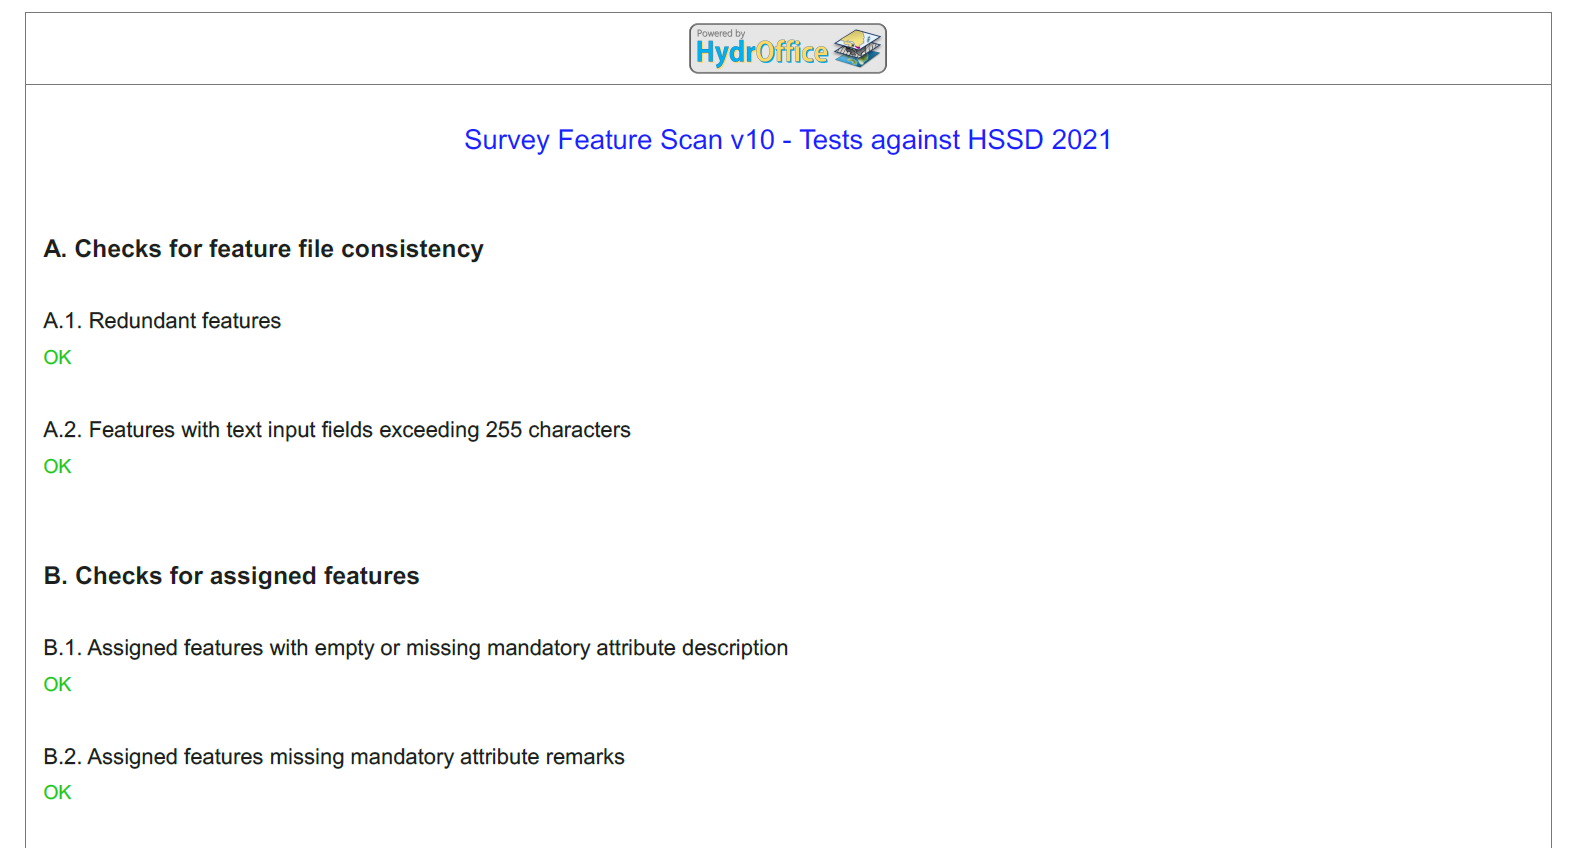
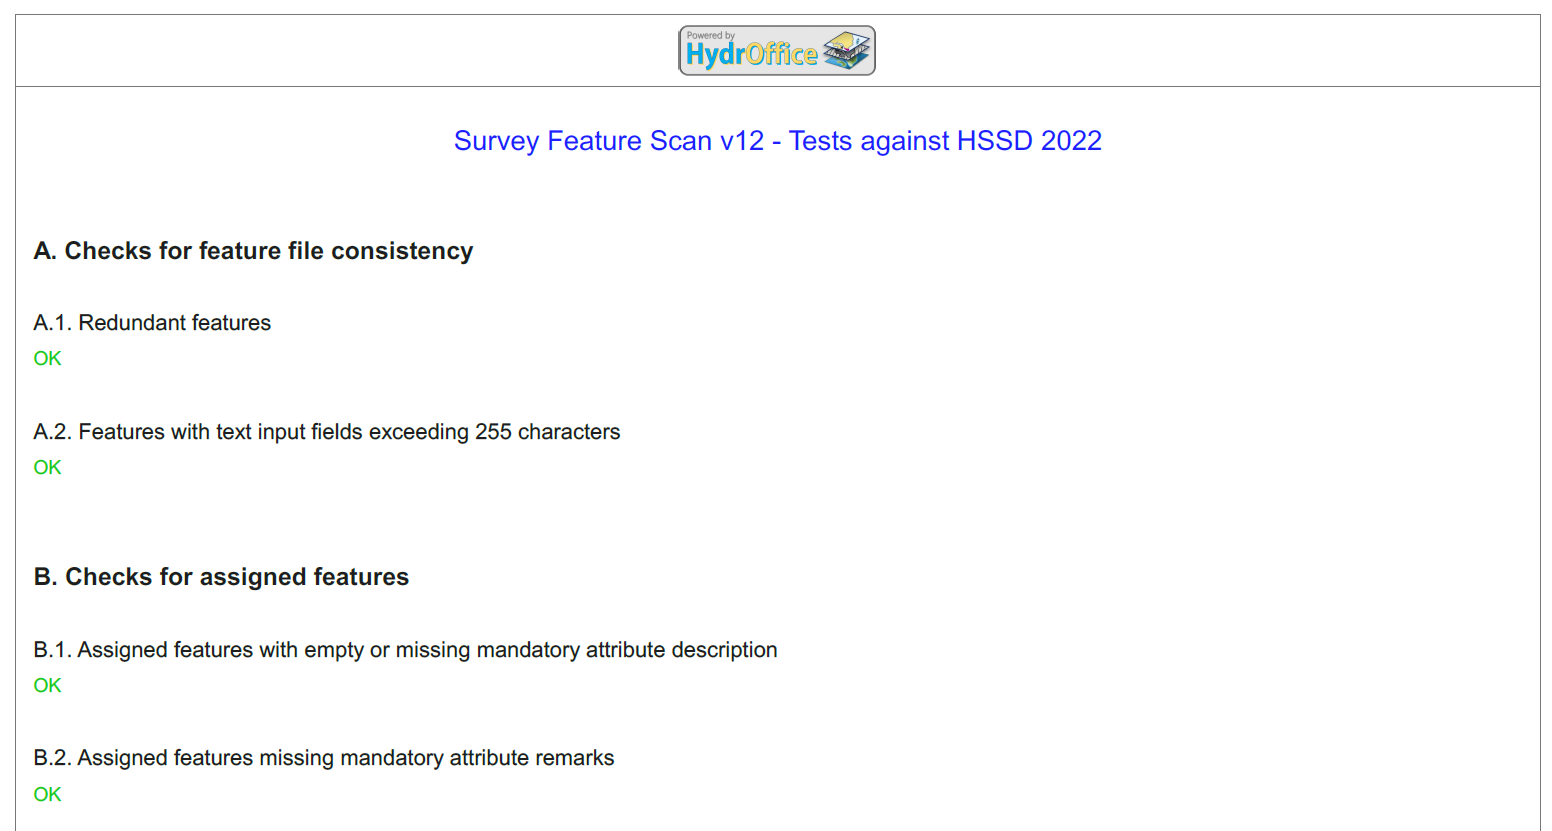
backported changes from Pydro to manual

diff --git a/docs/user_manual_survey_scan_features.rst b/docs/user_manual_survey_scan_features.rst
@@ -34,7 +34,7 @@ In order to access this tool, load an S-57 file into the **Data Inputs** tab.
 .. index::
     single: feature scan
 
-* In **Execution**, click **Feature scan v11**.
+* In **Execution**, click **Feature scan v12**.
 
 .. _fig_feature_scan:
 .. figure:: _static/feature_scan_interface.png
@@ -69,7 +69,7 @@ How Does It Work?
 
 The S-57 features are scanned to ensure proper attribution per the required year of HSSD.
 
-The logic for the 2021 QC Tools feature scan is shown below. For previous years, refer to the HSSD for that year.
+The logic for the 2022 QC Tools feature scan is shown below. For previous years, refer to the HSSD for that year.
 
 * Checks for feature file consistency:
 	* Check to ensure no feature redundancy. Features that have the same position, acronym, and attribution are flagged.
@@ -83,7 +83,7 @@ The logic for the 2021 QC Tools feature scan is shown below. For previous years,
 	* All new or updated features with a VALSOU have a correct **QUASOU** per the HSSD. [2]_
 	* All features with **ELEVAT** are checked for valid value.
 * New or Deleted features = all features with **descrp = 1 or 3**:
-    * All New or Deleted features must have **remrks** and **recomd.**
+    * All New or Deleted features must have **remrks**.
 * All features with images:
 	* All **images** contain the correct naming convention and they have a corresponding image in the multimedia folder.
 	* Receive a warning if an image is used on multiple features.
@@ -92,9 +92,12 @@ The logic for the 2021 QC Tools feature scan is shown below. For previous years,
 * DTONs = all features with **descrp = 1 or 2**, **sftype = 3**:
     * All DTONs must have **images.**
 * Wrecks = all **WRECKS** with **descrp = 1 or 2**:
-    * All Wrecks must have **images, CATWRK**, and **VALSOU**. [3]_
+    * All Wrecks must have **images, CATWRK**, and **VALSOU** or **HEIGHT**. [3]_
 	* If Wreck has **VALSOU**:
 		* Must have **WATLEV**, **QUASOU**, and **TECSOU**.
+    * If Wreck has **HEIGHT**:
+        * Must have **WATLEV** = "Always Dry"
+        * **TECSOU** and **QUASOU** should be blank.
 	* If Wreck does not have **VALSOU**:
 		* Must have **QUASOU** and **TECSOU** of null/undefined.
 		* Receive a warning if **WATLEV** is not "unknown".
@@ -110,7 +113,10 @@ The logic for the 2021 QC Tools feature scan is shown below. For previous years,
     * All obsructions (excluding foul ground and foul areas) must have **VALSOU**. [3]_
     * If obstruction has **VALSOU**:
         * Obstruction must have **WATLEV**, **QUASOU**, and **TECSOU**.
-    * If obstruction does not have **VALSOU**:
+    * If obstruction has **HEIGHT**:
+        * Must have **WATLEV** = "Always Dry"
+        * **TECSOU** and **QUASOU** should be blank.
+    * If obstruction does not have **VALSOU** or **HEIGHT**:
         * Must have **QUASOU** and **TECSOU** of null/undefined.
         * Receive a warning if **WATLEV** is not "unknown".
     * If obstruction is foul ground:
@@ -144,13 +150,13 @@ The logic for the 2021 QC Tools feature scan is shown below. For previous years,
     * All features must have **hsdrec.**
     * Checks for features that are prohibited by MCD (**DRGARE, LOGPON, PIPARE, PIPOHD, PIPSOL, DMPGRD, CBLSUB, CBLARE, FAIRWY, CBLOHD, BCNSPP, BRIDGE, OBSTRN with CATOBS = 5**, and **MORFAC** with **CATMOR = 7**.
     * Flags ATONS if they are found in the file. MCD defines ATONS as: **LIGHTS, BOYLAT, BOYSAW, BOYSPP, DAYMAR, FOGSIG, RTPBCN, BOYISD, BOYINB, BOYCAR, BCNSPP, BCNLAT, BCNSAW, BCNCAR**, and **BCNISD**
-    * All **M_QUAL** features must have **CATZOC, SURSTA, SUREND,** and **TECSOU.**
+    * All new/updated **M_QUAL** features must have **CATZOC, SURSTA, SUREND,** and **TECSOU.**
     * All features must have **descrp** and **remrks**.
     * No features with onotes text input field exceeding 250 characters.
 
 .. rubric:: Footnotes
 
-.. [1] Allowable combinations of **WATLEV** per **VALSOU** depending on location are shown below as stated in Appendix E in the 2021 Hydrographic Specifications and Deliverables.
+.. [1] Allowable combinations of **WATLEV** per **VALSOU** depending on location are shown below as stated in Appendix E in the 2022 Hydrographic Specifications and Deliverables.
 
 .. _fig_WATLEV_attribution:
 .. figure:: _static/watlev_table.png
